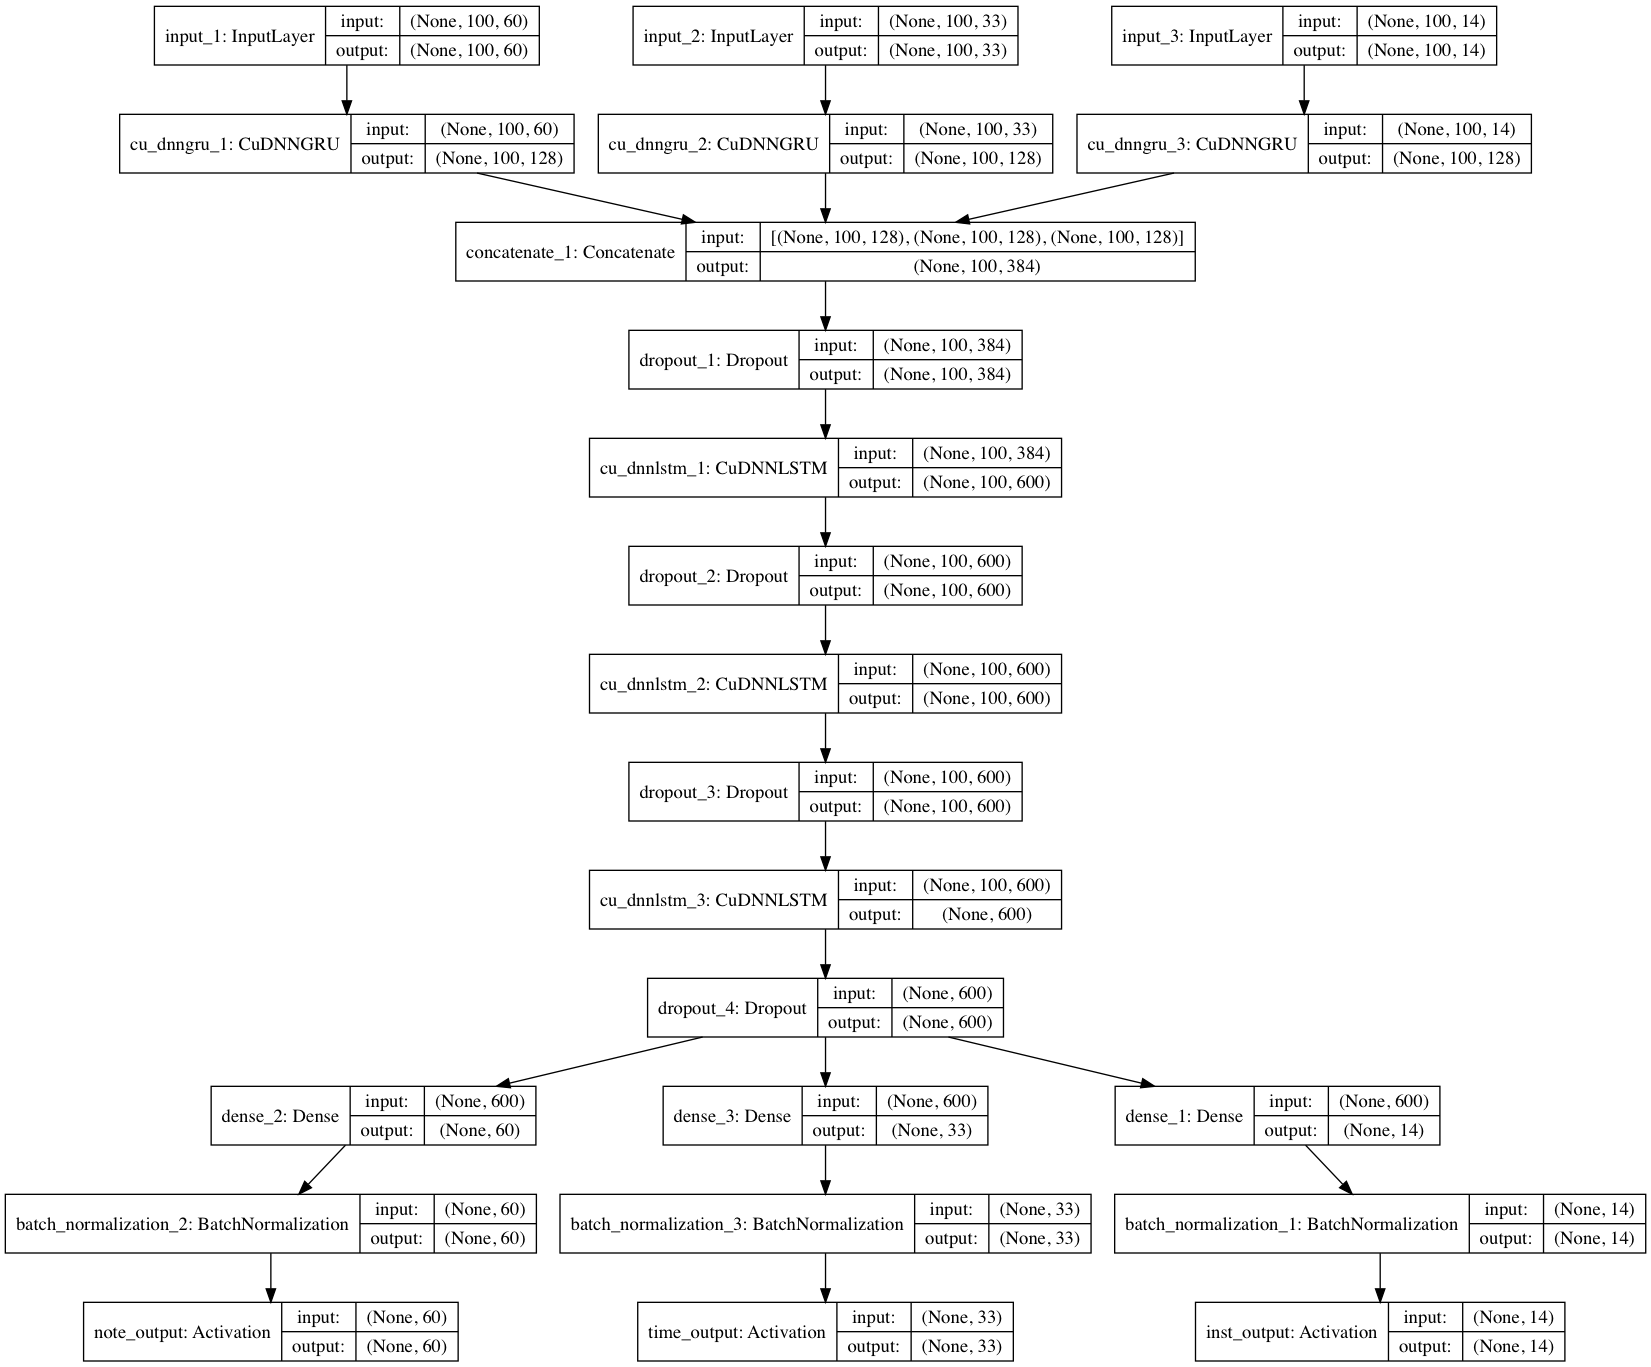
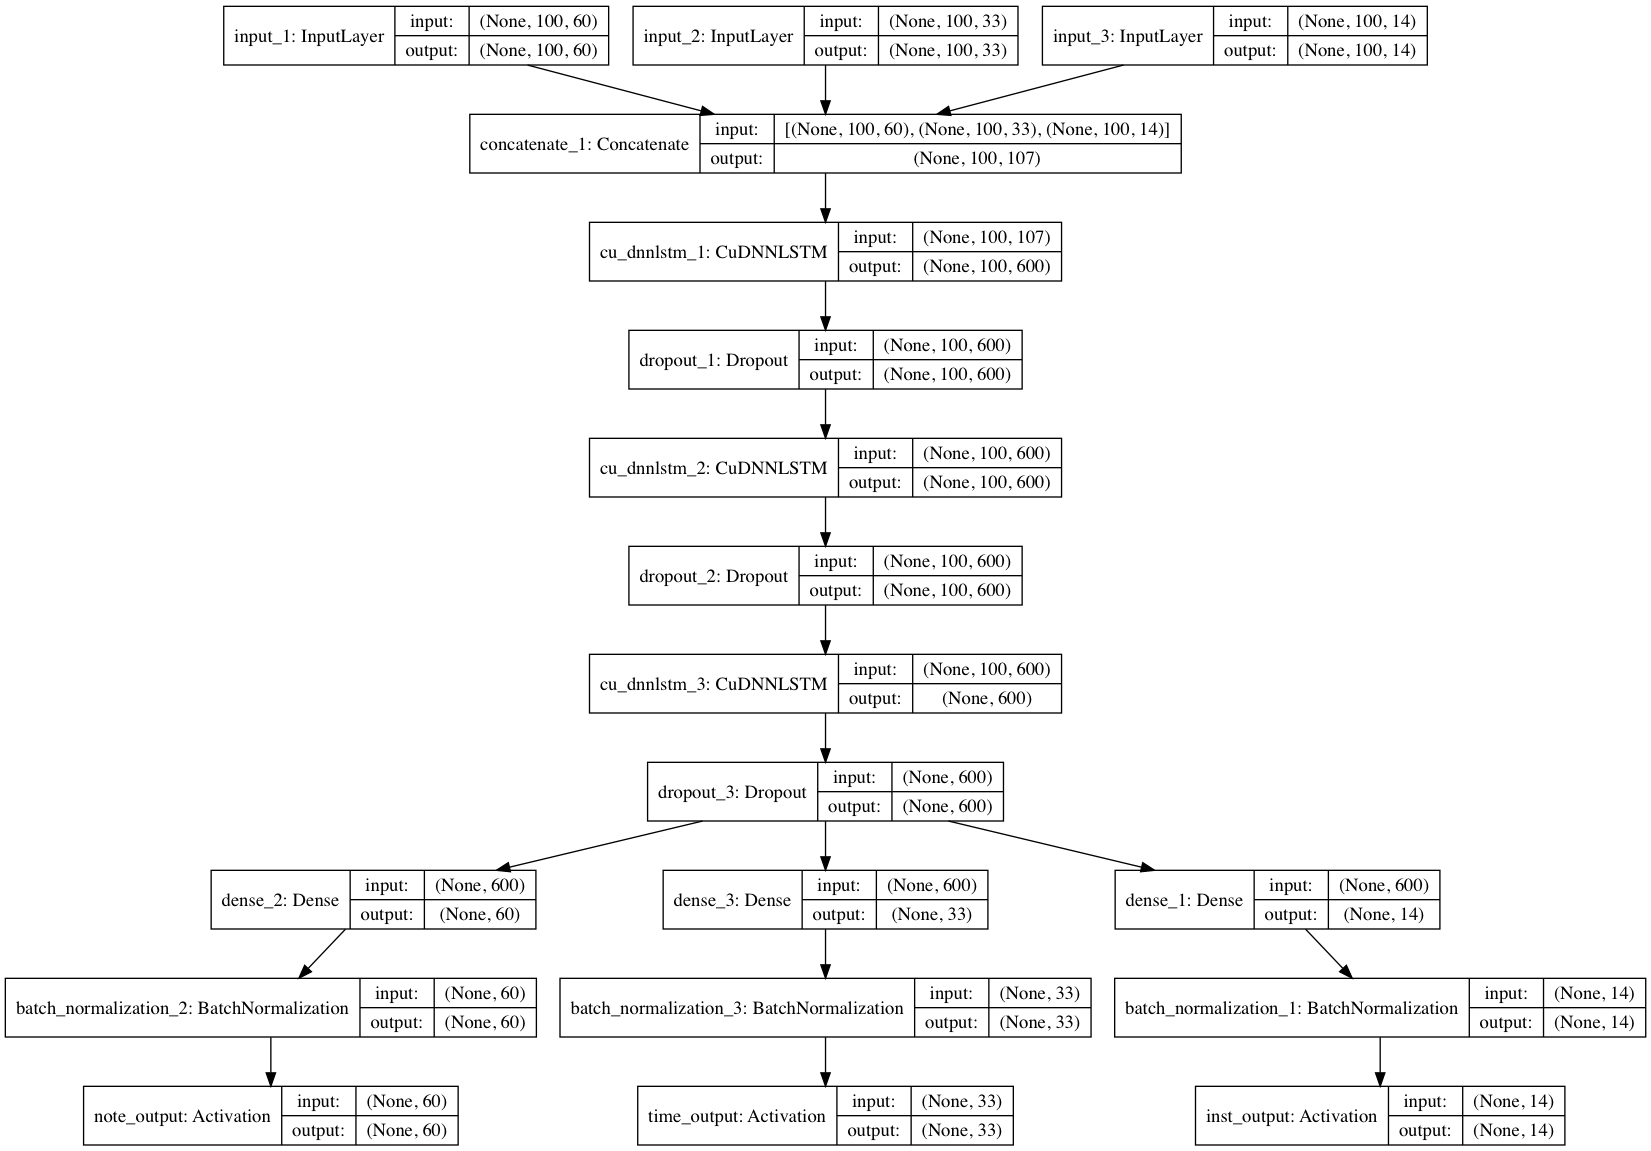
fix wrong model

Changed region(s): [[0.0, 0.0, 1.0, 1.0], [0.0927, 0.0912, 0.1236, 0.1216]]

diff --git a/multiple_instruments/train.py b/multiple_instruments/train.py
@@ -305,16 +305,12 @@ def main():
     print('Build model...')
     # network:
     noteInput  = Input(shape=(segLen, vecLen))
-    noteEncode = CuDNNGRU(hidden_note, return_sequences=True, trainable=train_note)(noteInput)
 
     deltaInput = Input(shape=(segLen, maxdelta))
-    deltaEncode = CuDNNGRU(hidden_delta, return_sequences=True, trainable=train_delta)(deltaInput)
 
     instInput = Input(shape=(segLen, maxinst))
-    instEncode   = CuDNNGRU(hidden_inst, return_sequences=True, trainable=train_inst)(instInput)
 
-    codec = concatenate([noteEncode, deltaEncode, instEncode], axis=-1) ## return last state
-    codec = Dropout(drop_rate)(codec)
+    codec = concatenate([noteInput, deltaInput, instInput], axis=-1) ## return last state
     codec = CuDNNLSTM(600, return_sequences=True, trainable=train_lstm)(codec)
     codec = Dropout(drop_rate)(codec)
     codec = CuDNNLSTM(600, return_sequences=True, trainable=train_lstm)(codec)

diff --git a/multiple_instruments/load.py b/multiple_instruments/load.py
@@ -41,19 +41,15 @@ print('Build model...')
 # network:
 with tf.device('/gpu:0'):
     noteInput  = Input(shape=(segLen, vecLen))
-    noteEncode = CuDNNGRU(hidden_note, return_sequences=True)(noteInput)
 
 with tf.device('/gpu:1'):
     deltaInput = Input(shape=(segLen, maxdelta))
-    deltaEncode = CuDNNGRU(hidden_delta, return_sequences=True)(deltaInput)
 
 with tf.device('/gpu:2'):
     instInput = Input(shape=(segLen, maxinst))
-    instEncode   = CuDNNGRU(hidden_inst, return_sequences=True)(instInput)
 
 with tf.device('/gpu:3'):
-    codec = concatenate([noteEncode, deltaEncode, instEncode], axis=-1) ## return last state
-    codec = Dropout(drop_rate)(codec)
+    codec = concatenate([noteInput, deltaInput, instInput], axis=-1) ## return last state
     codec = CuDNNLSTM(600, return_sequences=True)(codec)
     codec = Dropout(drop_rate)(codec)
     codec = CuDNNLSTM(600, return_sequences=True)(codec)

diff --git a/multiple_instruments/summary.py b/multiple_instruments/summary.py
@@ -41,19 +41,15 @@ print('Build model...')
 # network:
 with tf.device('/gpu:0'):
     noteInput  = Input(shape=(segLen, vecLen))
-    noteEncode = CuDNNGRU(hidden_note, return_sequences=True)(noteInput)
 
 with tf.device('/gpu:1'):
     deltaInput = Input(shape=(segLen, maxdelta))
-    deltaEncode = CuDNNGRU(hidden_delta, return_sequences=True)(deltaInput)
 
 with tf.device('/gpu:2'):
     instInput = Input(shape=(segLen, maxinst))
-    instEncode   = CuDNNGRU(hidden_inst, return_sequences=True)(instInput)
 
 with tf.device('/gpu:3'):
-    codec = concatenate([noteEncode, deltaEncode, instEncode], axis=-1) ## return last state
-    codec = Dropout(drop_rate)(codec)
+    codec = concatenate([noteInput, deltaInput, instInput], axis=-1) ## return last state
     codec = CuDNNLSTM(600, return_sequences=True)(codec)
     codec = Dropout(drop_rate)(codec)
     codec = CuDNNLSTM(600, return_sequences=True)(codec)
